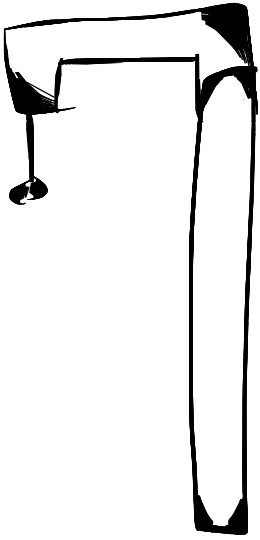
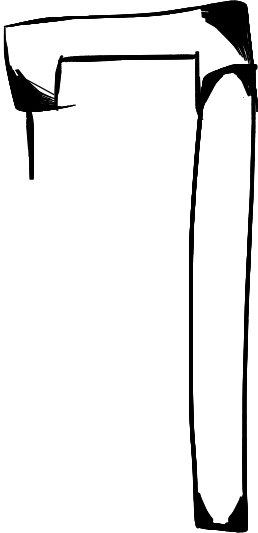
(hangman) added the body part images, styling for these, and template + directive logic to display the body parts gradually

diff --git a/angular/4appApplication/src/app/components/hangman/hangman.component.html b/angular/4appApplication/src/app/components/hangman/hangman.component.html
@@ -11,8 +11,14 @@
 	<input #letterInput id="letter-input-field" (keyup.enter)="guessLetter(letterInput.value); letterInput.value=''"
 		maxlength="1">
 
-	<div id="hangman-container">
-		<img  src="assets/images/hangman/pole.png" alt="hangman pole">
+	<div id="hangman-container" appHangmanDisplay [wrongGuesses]="wrongGuesses.length">
+		<img src="assets/images/hangman/pole.png" alt="hangman pole">
+		<img class="body-part" src="assets/images/hangman/body_parts/head.png" alt="head part of the hangman">
+		<img class="body-part" src="assets/images/hangman/body_parts/torso.png" alt="torso part of the hangman">
+		<img class="body-part" src="assets/images/hangman/body_parts/left_leg.png" alt="left leg part of the hangman">
+		<img class="body-part" src="assets/images/hangman/body_parts/right_leg.png" alt="right leg part of the hangman">
+		<img class="body-part" src="assets/images/hangman/body_parts/left_arm.png" alt="left arm part of the hangman">
+		<img class="body-part" src="assets/images/hangman/body_parts/right_arm.png" alt="right arm part of the hangman">
 	</div>
 	<button id="exit-game-button" class="primary-button" (click)="exitGame()">exit game</button>
 </div>

diff --git a/angular/4appApplication/src/app/directives/hangman-display.directive.ts b/angular/4appApplication/src/app/directives/hangman-display.directive.ts
@@ -1,10 +1,36 @@
-import { Directive } from '@angular/core';
+import { Directive, ElementRef, Input, OnChanges, Renderer2 } from '@angular/core';
 
 @Directive({
   selector: '[appHangmanDisplay]'
 })
-export class HangmanDisplayDirective {
+export class HangmanDisplayDirective implements OnChanges {
+  @Input() wrongGuesses: number = 0;
 
-  constructor() { }
+  private bodyPartNames: string[] = [
+    'head.png',
+    'torso.png',
+    'left_arm.png',
+    'right_arm.png',
+    'left_leg.png',
+    'right_leg.png'
+  ];
 
+  constructor(private elemRef: ElementRef, private renderer: Renderer2) { }
+
+  ngOnChanges(): void {
+    this.updateHangmanDisplay();
+  }
+
+  private updateHangmanDisplay() {
+    const parts = this.elemRef.nativeElement.querySelectorAll('.body-part');
+
+    parts.forEach((part: HTMLImageElement, index: number) => {
+      if (index < this.wrongGuesses) {
+        this.renderer.setStyle(part, 'display', 'block');
+        this.renderer.setAttribute(part, 'src', `assets/images/hangman/body_parts/${this.bodyPartNames[index]}`);
+      } else {
+        this.renderer.setStyle(part, 'display', 'none');
+      }
+    });
+  }
 }

diff --git a/angular/4appApplication/src/app/components/hangman/hangman.component.scss b/angular/4appApplication/src/app/components/hangman/hangman.component.scss
@@ -55,6 +55,12 @@
 	position: absolute;
 	left: 10vw;
 	top: 20%;
-	height: 400px;
 	width: 15vw;
+
+	.body-part {
+		position: absolute;
+		left: -2vw;
+		top: 9.7vw;
+		width: 8vw;
+	}
 }
